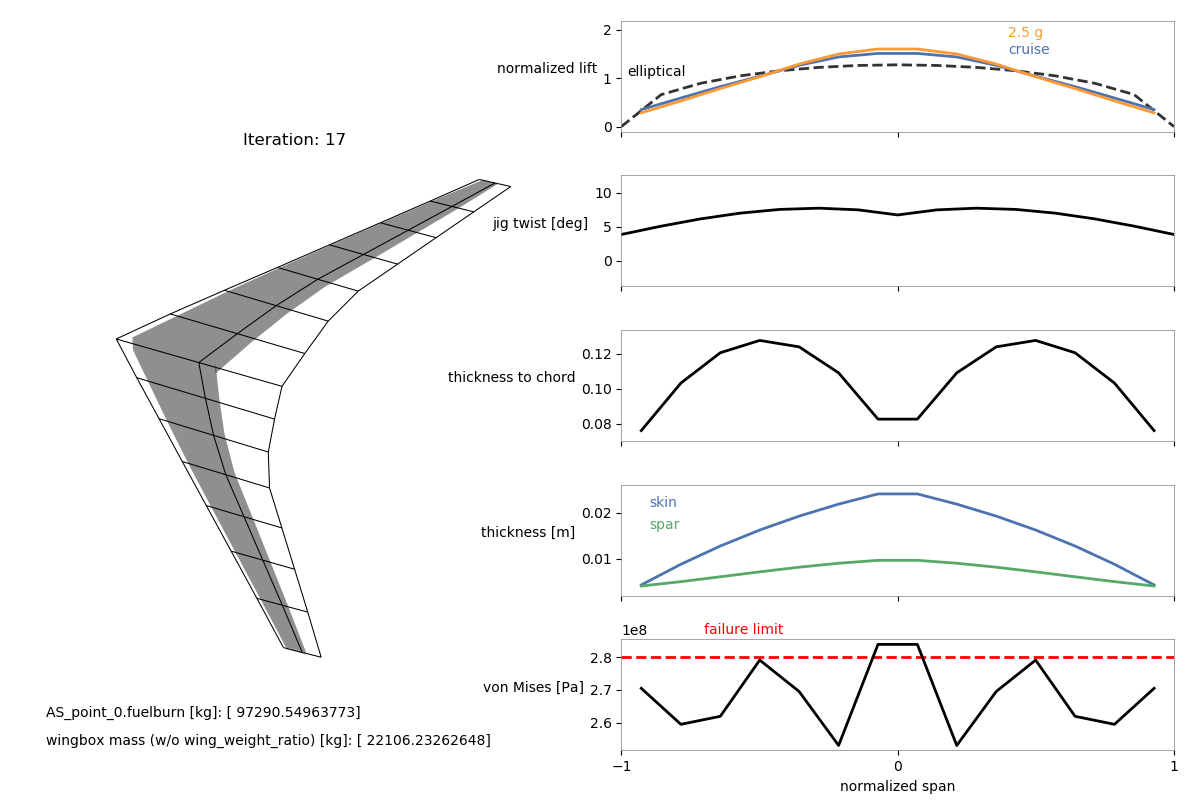
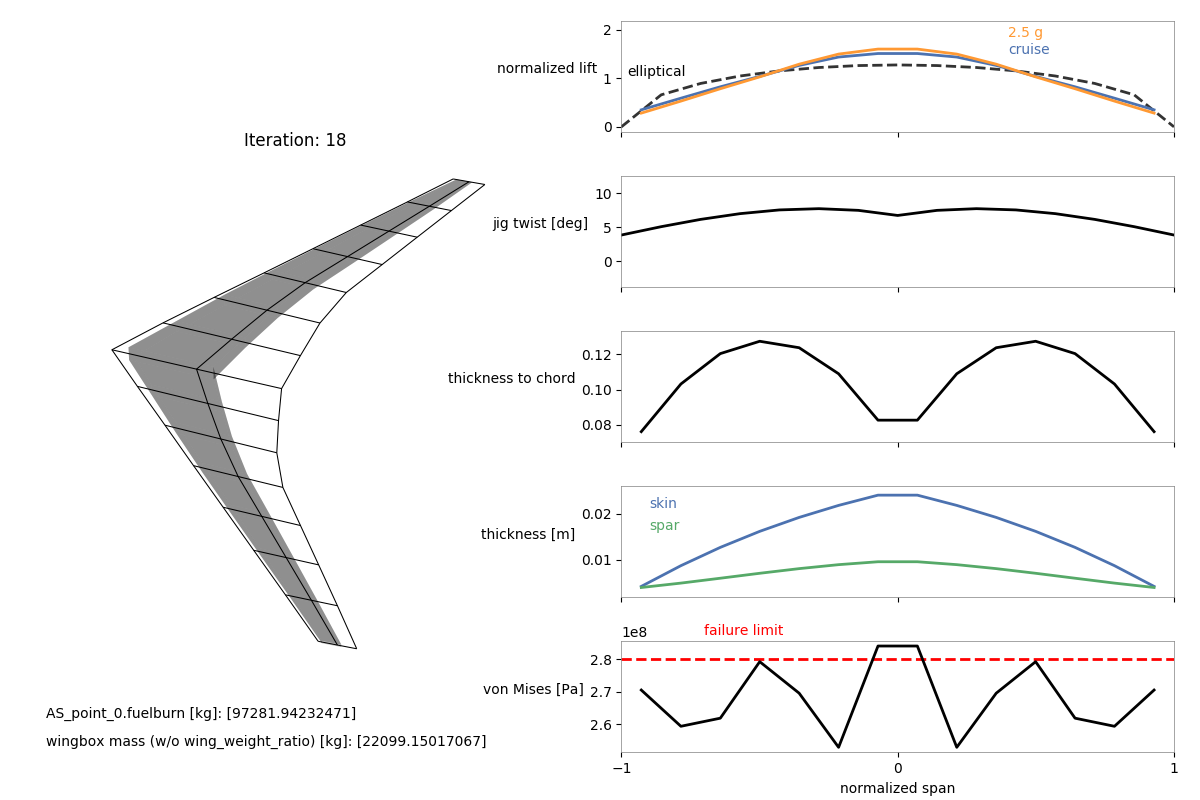
minor edits to wingbox examples and docs after mass/weight changes

diff --git a/openaerostruct/docs/wingbox_mpt_opt_example.py b/openaerostruct/docs/wingbox_mpt_opt_example.py
@@ -290,29 +290,32 @@ recorder = SqliteRecorder("aerostruct.db")
 prob.driver.add_recorder(recorder)
 
 # We could also just use prob.driver.recording_options['includes']=['*'] here, but for large meshes the database file becomes extremely large. So we just select the variables we need.
-prob.driver.recording_options['includes'] = \
-['prob_vars.alpha', 'prob_vars.rho', 'prob_vars.v', 'prob_vars.cg', \
-'AS_point_1.total_perf.CG.cg', 'AS_point_0.total_perf.CG.cg', \
-'AS_point_0.coupled.wing_loads.loads', 'AS_point_1.coupled.wing_loads.loads', \
-'wing.wingbox_group.skin_thickness_bsp.skin_thickness', \
-'wing.geometry.mesh.rotate.mesh',\
-'wing.wingbox_group.spar_thickness_bsp.spar_thickness', \
-'wing.wingbox_group.spar_thickness_bsp.spar_thickness', \
-'wing.geometry.t_over_c_bsp.t_over_c', \
-'AS_point_0.wing_perf.struct_funcs.vonmises.vonmises', \
-'AS_point_1.wing_perf.struct_funcs.vonmises.vonmises', \
-'wing.struct_setup.structural_mass.structural_mass', \
-'AS_point_0.coupled.wing.def_mesh.displacement_transfer.def_mesh', \
-'AS_point_1.coupled.wing.def_mesh.displacement_transfer.def_mesh', \
-'AS_point_0.coupled.wing.aero_geom.normals', \
-'AS_point_1.coupled.wing.aero_geom.normals', \
-'AS_point_0.coupled.wing.aero_geom.widths',  'AS_point_1.coupled.wing.aero_geom.widths', \
-'AS_point_0.coupled.aero_states.panel_forces_surf.wing_sec_forces', \
-'AS_point_1.coupled.aero_states.panel_forces_surf.wing_sec_forces', \
-'AS_point_0.wing_perf.aero_funcs.coeffs.CL1', 'AS_point_1.wing_perf.aero_funcs.coeffs.CL1', \
-'AS_point_0.coupled.wing.aero_geom.S_ref',
-'AS_point_1.coupled.wing.aero_geom.S_ref',
-'wing.geometry.twist_bsp.twist']
+prob.driver.recording_options['includes'] = [
+    'alpha', 'rho', 'v', 'cg',
+    'AS_point_1.cg', 'AS_point_0.cg',
+    'AS_point_0.coupled.wing_loads.loads',
+    'AS_point_1.coupled.wing_loads.loads',
+    'AS_point_0.coupled.wing.normals',
+    'AS_point_1.coupled.wing.normals',
+    'AS_point_0.coupled.wing.widths',
+    'AS_point_1.coupled.wing.widths',
+    'AS_point_0.coupled.aero_states.wing_sec_forces',
+    'AS_point_1.coupled.aero_states.wing_sec_forces',
+    'AS_point_0.wing_perf.CL1',
+    'AS_point_1.wing_perf.CL1',
+    'AS_point_0.coupled.wing.S_ref',
+    'AS_point_1.coupled.wing.S_ref',
+    'wing.geometry.twist',
+    'wing.mesh',
+    'wing.skin_thickness',
+    'wing.spar_thickness',
+    'wing.t_over_c',
+    'wing.structural_mass',
+    'AS_point_0.wing_perf.vonmises',
+    'AS_point_1.wing_perf.vonmises',
+    'AS_point_0.coupled.wing.def_mesh',
+    'AS_point_1.coupled.wing.def_mesh',
+    ]
 
 prob.driver.recording_options['record_objectives'] = True
 prob.driver.recording_options['record_constraints'] = True
@@ -332,6 +335,6 @@ prob.setup()
 prob.run_driver()
 
 print('The fuel burn value is', prob['AS_point_0.fuelburn'][0], '[kg]')
-print('The wingbox mass (excluding the wing_weight_ratio) is', prob['wing.structural_mass'][0]/grav_constant/surf_dict['wing_weight_ratio'], '[kg]')
+print('The wingbox mass (excluding the wing_weight_ratio) is', prob['wing.structural_mass'][0]/surf_dict['wing_weight_ratio'], '[kg]')
 
 #docs checkpoint 28

diff --git a/openaerostruct/docs/wingbox_mpt_Q400_example.py b/openaerostruct/docs/wingbox_mpt_Q400_example.py
@@ -252,29 +252,32 @@ recorder = SqliteRecorder("aerostruct.db")
 prob.driver.add_recorder(recorder)
 
 # We could also just use prob.driver.recording_options['includes']=['*'] here, but for large meshes the database file becomes extremely large. So we just select the variables we need.
-prob.driver.recording_options['includes'] = \
-['prob_vars.alpha', 'prob_vars.rho', 'prob_vars.v', 'prob_vars.cg', \
-'AS_point_1.total_perf.CG.cg', 'AS_point_0.total_perf.CG.cg', \
-'AS_point_0.coupled.wing_loads.loads', 'AS_point_1.coupled.wing_loads.loads', \
-'wing.wingbox_group.skin_thickness_bsp.skin_thickness', \
-'wing.geometry.mesh.rotate.mesh',\
-'wing.wingbox_group.spar_thickness_bsp.spar_thickness', \
-'wing.wingbox_group.spar_thickness_bsp.spar_thickness', \
-'wing.geometry.t_over_c_bsp.t_over_c', \
-'AS_point_0.wing_perf.struct_funcs.vonmises.vonmises', \
-'AS_point_1.wing_perf.struct_funcs.vonmises.vonmises', \
-'wing.struct_setup.structural_mass.structural_mass', \
-'AS_point_0.coupled.wing.def_mesh.displacement_transfer.def_mesh', \
-'AS_point_1.coupled.wing.def_mesh.displacement_transfer.def_mesh', \
-'AS_point_0.coupled.wing.aero_geom.normals', \
-'AS_point_1.coupled.wing.aero_geom.normals', \
-'AS_point_0.coupled.wing.aero_geom.widths',  'AS_point_1.coupled.wing.aero_geom.widths', \
-'AS_point_0.coupled.aero_states.panel_forces_surf.wing_sec_forces', \
-'AS_point_1.coupled.aero_states.panel_forces_surf.wing_sec_forces', \
-'AS_point_0.wing_perf.aero_funcs.coeffs.CL1', 'AS_point_1.wing_perf.aero_funcs.coeffs.CL1', \
-'AS_point_0.coupled.wing.aero_geom.S_ref',
-'AS_point_1.coupled.wing.aero_geom.S_ref',
-'wing.geometry.twist_bsp.twist']
+prob.driver.recording_options['includes'] = [
+    'alpha', 'rho', 'v', 'cg',
+    'AS_point_1.cg', 'AS_point_0.cg',
+    'AS_point_0.coupled.wing_loads.loads',
+    'AS_point_1.coupled.wing_loads.loads',
+    'AS_point_0.coupled.wing.normals',
+    'AS_point_1.coupled.wing.normals',
+    'AS_point_0.coupled.wing.widths',
+    'AS_point_1.coupled.wing.widths',
+    'AS_point_0.coupled.aero_states.wing_sec_forces',
+    'AS_point_1.coupled.aero_states.wing_sec_forces',
+    'AS_point_0.wing_perf.CL1',
+    'AS_point_1.wing_perf.CL1',
+    'AS_point_0.coupled.wing.S_ref',
+    'AS_point_1.coupled.wing.S_ref',
+    'wing.geometry.twist',
+    'wing.mesh',
+    'wing.skin_thickness',
+    'wing.spar_thickness',
+    'wing.t_over_c',
+    'wing.structural_mass',
+    'AS_point_0.wing_perf.vonmises',
+    'AS_point_1.wing_perf.vonmises',
+    'AS_point_0.coupled.wing.def_mesh',
+    'AS_point_1.coupled.wing.def_mesh',
+    ]
 
 prob.driver.recording_options['record_objectives'] = True
 prob.driver.recording_options['record_constraints'] = True
@@ -309,4 +312,4 @@ prob.run_driver()
 # prob.run_model()
 
 print('The fuel burn value is', prob['AS_point_0.fuelburn'][0], '[kg]')
-print('The wingbox mass (excluding the wing_weight_ratio) is', prob['wing.structural_mass'][0]/grav_constant/surf_dict['wing_weight_ratio'], '[kg]')
+print('The wingbox mass (excluding the wing_weight_ratio) is', prob['wing.structural_mass'][0]/surf_dict['wing_weight_ratio'], '[kg]')

diff --git a/openaerostruct/examples/run_aerostruct_uCRM_multipoint.py b/openaerostruct/examples/run_aerostruct_uCRM_multipoint.py
@@ -304,7 +304,7 @@ prob.run_driver()
 # prob.run_model()
 
 print('The fuel burn value is', prob['AS_point_0.fuelburn'][0], '[kg]')
-print('The wingbox mass (excluding the wing_weight_ratio) is', prob['wing.structural_mass'][0]/grav_constant/surf_dict['wing_weight_ratio'], '[kg]')
+print('The wingbox mass (excluding the wing_weight_ratio) is', prob['wing.structural_mass'][0]/surf_dict['wing_weight_ratio'], '[kg]')
 
 #=======================================================================================
 #=======================================================================================
@@ -569,16 +569,14 @@ class Test(unittest.TestCase):
 
         prob.run_driver()
 
-
         # print(prob['AS_point_0.fuelburn'][0])
-        # print(prob['wing.structural_mass'][0]/1.25)
+        # print(prob['wing.structural_mass'][0]/surf_dict['wing_weight_ratio'])
         # print(prob['wing.geometry.t_over_c_cp'])
 
-        assert_rel_error(self, prob['AS_point_0.fuelburn'][0], 101946.723936, 1e-5)
-        assert_rel_error(self, prob['wing.structural_mass'][0]/1.25, 358406.34121, 1e-5)
+        assert_rel_error(self, prob['AS_point_0.fuelburn'][0], 101937.827384, 1e-5)
+        assert_rel_error(self, prob['wing.structural_mass'][0]/surf_dict['wing_weight_ratio'], 36539.6437566, 1e-5)
         assert_rel_error(self, prob['wing.geometry.t_over_c_cp'],
-        np.array([ 0.10305255,  0.08205957,  0.11089362,  0.13089362,  0.10205957,  0.09361004]), 1e-5)
-
+        np.array([0.10247881, 0.08207636, 0.11114547, 0.13114547, 0.10207636, 0.09365598]), 1e-5)
 
 if __name__ == '__main__':
     unittest.main()

diff --git a/openaerostruct/docs/aerostructural_wingbox_walkthrough.rst b/openaerostruct/docs/aerostructural_wingbox_walkthrough.rst
@@ -6,6 +6,7 @@ Aerostructural with Wingbox Walkthrough
 In addition to the tubular-spar structural model available in OpenAeroStruct, you can use a wingbox-based model.
 This model is described in Chauhan and Martins' paper `here <https://www.researchgate.net/publication/325986597_Low-fidelity_aerostructural_optimization_of_aircraft_wings_with_a_simplified_wingbox_model_using_OpenAeroStruct>`_.
 We strongly recommend reading this relatively short conference paper to learn about the model and see some example results.
+The presentation slides for this conference paper can be found `here <https://www.researchgate.net/publication/327802989_Presentation_slides_for_Low-fidelity_Aerostructural_Optimization_of_Aircraft_Wings_with_a_Simplified_Wingbox_Model_Using_OpenAeroStruct>`_.
 Analytic derivatives are not provided for some components of this model, so any optimization problem will use the complex-step approximation to obtain the relevant partial derivatives for these components.
 
 .. image:: wingbox_fine.png
@@ -291,7 +292,7 @@ Now we put the code together, run it, and see the output:
     openaerostruct.docs.wingbox_mpt_opt_example
     :layout: interleave
 
-The following are the visualization results for this problem using the `plot_wingbox.py` visualization script (located in the `utils` directory).
+The following are the visualization results (keep in mind that this is with a very large optimization tolerance) for this problem using the `plot_wingbox.py` visualization script (located in the `utils` directory).
 This visualization script requires the `.db` file as an argument.
 For example, to use it for this example problem, from the example script's (wingbox_mpt_opt_example.py) location in the OpenAeroStruct `docs` directory, we would use:
 
@@ -300,3 +301,5 @@ For example, to use it for this example problem, from the example script's (wing
   python ../utils/plot_wingbox.py aerostruct.db
 
 .. image:: wingbox_opt.png
+
+This plotting script currently only works for two-flight-point problems like the one described in this walkthrough.
